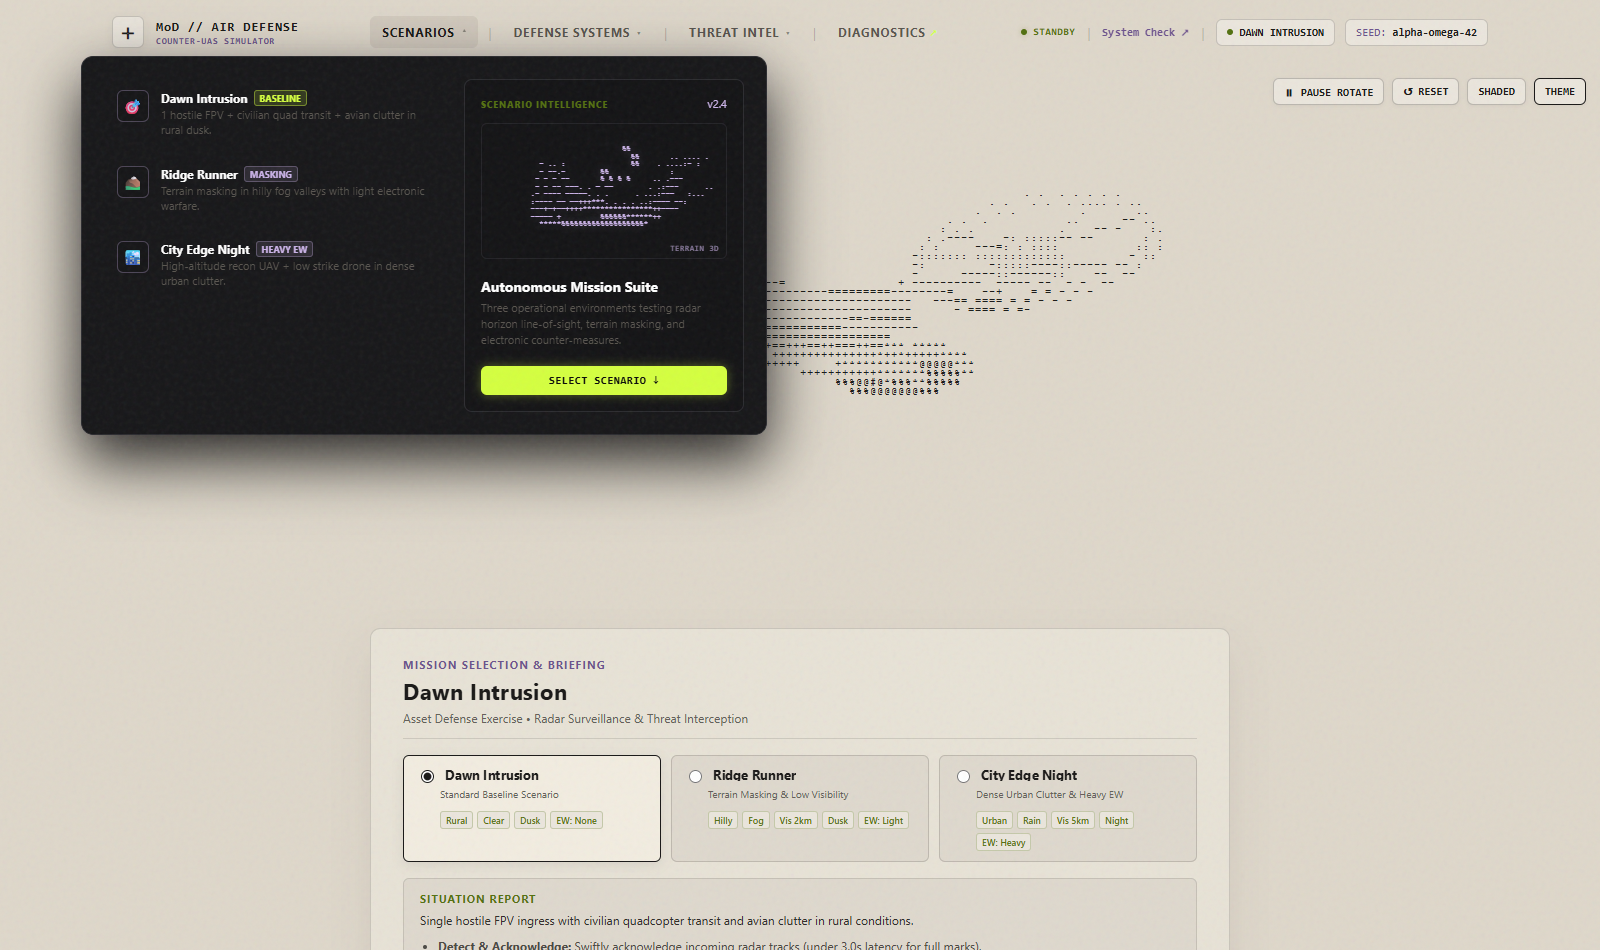
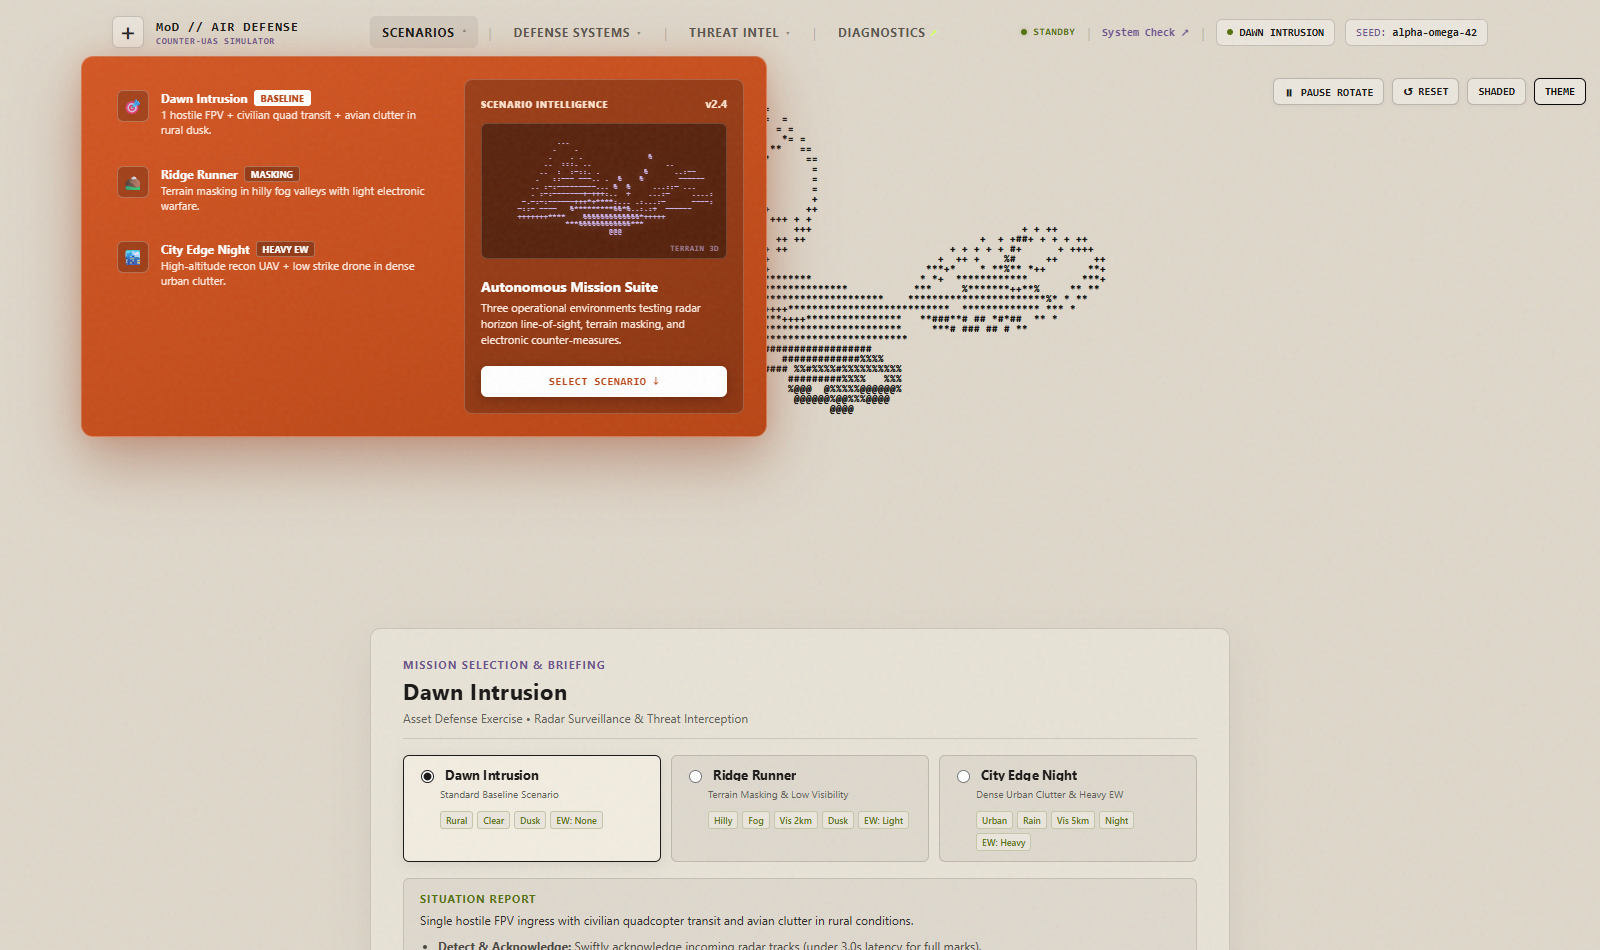
feat(ui): update navbar mega dropdowns to luxury Hermès burnt orange theme

Changed region(s): [[0.0312, 0.0305, 0.6875, 0.5189]]

diff --git a/src/app/console/TopBar.tsx b/src/app/console/TopBar.tsx
@@ -221,7 +221,7 @@ export function TopBar({
                 <div className="mega-preview-card">
                   <div className="mega-preview-header">
                     <span className="mega-preview-tag">SCENARIO INTELLIGENCE</span>
-                    <span style={{ fontSize: '11px', color: '#cbb3e8' }}>v2.4</span>
+                    <span style={{ fontSize: '11px', color: '#ffe0cc', fontWeight: 700 }}>v2.4</span>
                   </div>
                   <NavMiniAsciiPreview modelType="terrain" />
                   <div>
@@ -316,7 +316,7 @@ export function TopBar({
                 <div className="mega-preview-card">
                   <div className="mega-preview-header">
                     <span className="mega-preview-tag">INTEGRATED C2 SUITE</span>
-                    <span style={{ fontSize: '11px', color: '#d4ff3f' }}>ARMED</span>
+                    <span style={{ fontSize: '11px', color: '#ffffff', fontWeight: 800 }}>ARMED</span>
                   </div>
                   <NavMiniAsciiPreview modelType="radar" />
                   <div>
@@ -411,7 +411,7 @@ export function TopBar({
                 <div className="mega-preview-card">
                   <div className="mega-preview-header">
                     <span className="mega-preview-tag">DOCTRINE & ROE</span>
-                    <span style={{ fontSize: '11px', color: '#e34234' }}>STRICT</span>
+                    <span style={{ fontSize: '11px', color: '#ffffff', fontWeight: 800 }}>STRICT</span>
                   </div>
                   <NavMiniAsciiPreview modelType="fpv" />
                   <div>
@@ -669,32 +669,35 @@ const styles: Record<string, React.CSSProperties> = {
   },
   menuBadgeActive: {
     fontSize: '9px',
-    padding: '1px 5px',
+    padding: '1px 6px',
     borderRadius: '3px',
-    backgroundColor: 'rgba(212, 255, 63, 0.15)',
-    border: '1px solid rgba(212, 255, 63, 0.4)',
-    color: '#d4ff3f',
+    backgroundColor: '#ffffff',
+    border: '1px solid #ffffff',
+    color: '#b84414',
+    fontWeight: 800,
   },
   menuBadgeTag: {
     fontSize: '9px',
-    padding: '1px 5px',
+    padding: '1px 6px',
     borderRadius: '3px',
-    backgroundColor: 'rgba(203, 179, 232, 0.12)',
-    border: '1px solid rgba(203, 179, 232, 0.3)',
-    color: '#cbb3e8',
+    backgroundColor: 'rgba(0, 0, 0, 0.28)',
+    border: '1px solid rgba(255, 255, 255, 0.28)',
+    color: '#ffffff',
+    fontWeight: 700,
   },
   menuBadgeAlert: {
     fontSize: '9px',
-    padding: '1px 5px',
+    padding: '1px 6px',
     borderRadius: '3px',
-    backgroundColor: 'rgba(227, 66, 52, 0.15)',
-    border: '1px solid rgba(227, 66, 52, 0.4)',
-    color: '#e34234',
+    backgroundColor: '#ffffff',
+    border: '1px solid #ffffff',
+    color: '#a31f13',
+    fontWeight: 800,
   },
   previewCardBtn: {
-    padding: '8px 12px',
-    backgroundColor: '#d4ff3f',
-    color: '#080808',
+    padding: '9px 14px',
+    backgroundColor: '#ffffff',
+    color: '#b84414',
     border: 'none',
     borderRadius: '6px',
     fontSize: '11px',
@@ -702,14 +705,14 @@ const styles: Record<string, React.CSSProperties> = {
     fontFamily: 'monospace',
     cursor: 'pointer',
     letterSpacing: '0.04em',
-    boxShadow: '0 0 10px rgba(212, 255, 63, 0.35)',
+    boxShadow: '0 3px 12px rgba(0, 0, 0, 0.25)',
     marginTop: '6px',
   },
   previewCardLink: {
     padding: '8px 12px',
-    backgroundColor: '#181818',
-    color: '#cbb3e8',
-    border: '1px solid rgba(203, 179, 232, 0.25)',
+    backgroundColor: 'rgba(255, 255, 255, 0.18)',
+    color: '#ffffff',
+    border: '1px solid rgba(255, 255, 255, 0.35)',
     borderRadius: '6px',
     fontSize: '11px',
     fontWeight: 700,

diff --git a/src/app/styles/console.css b/src/app/styles/console.css
@@ -213,10 +213,10 @@ body {
   opacity: 0;
   visibility: hidden;
   pointer-events: none;
-  background: rgba(18, 18, 20, 0.98);
-  border: 1px solid #2a2a2e;
+  background: linear-gradient(155deg, #d35623 0%, #b84414 100%);
+  border: 1px solid rgba(255, 255, 255, 0.24);
   border-radius: 12px;
-  box-shadow: 0 25px 60px rgba(0, 0, 0, 0.85), 0 0 15px rgba(203, 179, 232, 0.1);
+  box-shadow: 0 25px 60px rgba(130, 45, 12, 0.38), 0 0 25px rgba(211, 86, 35, 0.22);
   backdrop-filter: blur(20px);
   z-index: 1000;
   transition: opacity 0.2s cubic-bezier(0.16, 1, 0.3, 1),
@@ -272,8 +272,8 @@ body {
 }
 
 .mega-menu-card-item:hover {
-  background: rgba(203, 179, 232, 0.08);
-  border-color: rgba(203, 179, 232, 0.25);
+  background: rgba(255, 255, 255, 0.15);
+  border-color: rgba(255, 255, 255, 0.28);
   transform: translateX(3px);
 }
 
@@ -281,8 +281,8 @@ body {
   width: 32px;
   height: 32px;
   border-radius: 6px;
-  background: #141416;
-  border: 1px solid rgba(203, 179, 232, 0.3);
+  background: rgba(0, 0, 0, 0.22);
+  border: 1px solid rgba(255, 255, 255, 0.26);
   display: flex;
   align-items: center;
   justify-content: center;
@@ -306,14 +306,14 @@ body {
 }
 
 .mega-menu-item-desc {
-  color: var(--text-secondary);
+  color: #ffe8dd;
   font-size: 11px;
   line-height: 1.35;
 }
 
 .mega-preview-card {
-  background: #121214;
-  border: 1px solid #2a2a2e;
+  background: rgba(0, 0, 0, 0.24);
+  border: 1px solid rgba(255, 255, 255, 0.2);
   border-radius: 8px;
   padding: 16px;
   display: flex;
@@ -332,7 +332,7 @@ body {
   font-size: 9px;
   font-weight: 800;
   letter-spacing: 0.08em;
-  color: var(--accent-chartreuse);
+  color: #ffe0cc;
   text-transform: uppercase;
 }
 
@@ -344,7 +344,7 @@ body {
 }
 
 .mega-preview-text {
-  color: var(--text-secondary);
+  color: #ffe8dd;
   font-size: 11px;
   line-height: 1.45;
   margin: 0;

diff --git a/src/app/components/NavMiniAsciiPreview.tsx b/src/app/components/NavMiniAsciiPreview.tsx
@@ -249,7 +249,7 @@ function generateFpvModel(): Point3D[] {
 export function NavMiniAsciiPreview({
   modelType,
   color,
-  backgroundColor = 'transparent',
+  backgroundColor = 'rgba(0, 0, 0, 0.42)',
   className = '',
   style,
 }: NavMiniAsciiPreviewProps): React.JSX.Element {
@@ -461,7 +461,7 @@ export function NavMiniAsciiPreview({
         justifyContent: 'center',
         userSelect: 'none',
         cursor: isDraggingRef.current ? 'grabbing' : 'grab',
-        border: '1px solid #222226',
+        border: '1px solid rgba(255, 255, 255, 0.16)',
         position: 'relative',
         ...style,
       }}
